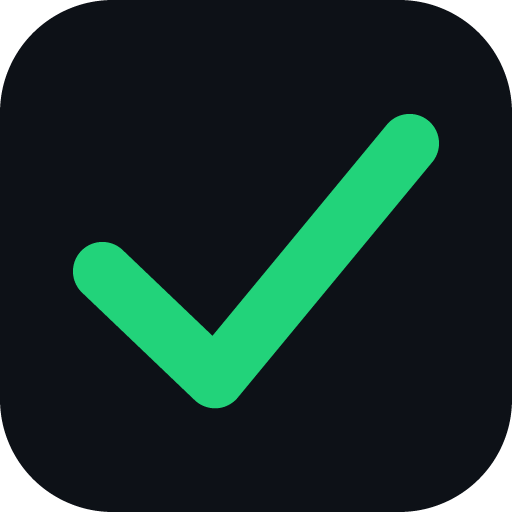
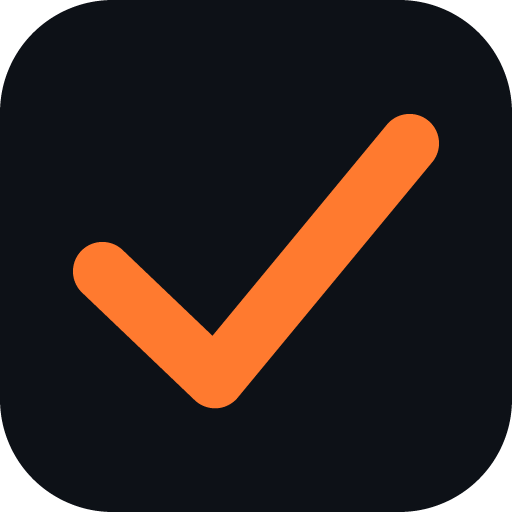
アクセントカラーをオレンジに / チェック時の効果音を追加
- 配色: フラットなオレンジ（ダーク #ff7a2f、ライト #e2621b）をアクセントにし、
  チェック済みと主要ボタンに使う。色がぶつかるためスキップは橙からグレーへ。
  緑は使わなくなった。アプリアイコンもオレンジに作り直した。
- 効果音: チェックを入れた瞬間に「ピコン」（C6 → G6 に倍音を少し重ねた約0.3秒）。
  音声ファイルは持たず Web Audio API でその場で合成するので、オフラインでも鳴り、
  容量も増えない。チェックを外すときとスキップでは鳴らさない。
  設定に「音を鳴らす」のオン / オフと「▶ 試す」を追加。既定はオン。

Claude-Session: https://claude.ai/code/session_015Zuj74Nt4WrpD2ovC3LtDR

Changed region(s): [[0.125, 0.2188, 0.875, 0.8125]]

diff --git a/index.html b/index.html
@@ -20,12 +20,12 @@
 :root{
   --bg:#0d1117; --card:#161d26; --card2:#202b36; --line:#333f4c; --press:#2b3846;
   --fg:#f2f6fa; --muted:#93a6b8; --field:#080b0f;
-  --ok:#22d37a; --ok-bg:#0e3222; --ok-line:#1f9d5e; --on-ok:#04250f;
-  --skip:#e6a640; --skip-bg:#2a2116; --skip-line:#8a6524;
-  --accent:#4da3ff; --primary-bg:#123f6d; --primary-fg:#dbeaff;
+  --ok:#ff7a2f; --ok-bg:#3a1e0c; --ok-line:#ff7a2f; --on-ok:#2a1002;
+  --skip:#94a6b8; --skip-bg:#1d242c; --skip-line:#4b5a68;
+  --accent:#ff7a2f; --primary-bg:#4a2410; --primary-fg:#ffd6bb;
   --danger:#ff8f8f; --danger-bg:#3d1717; --danger-line:#7d3030;
   --bar-bg:rgba(13,17,23,.97);
-  --toast-bg:#eef4fb; --toast-fg:#0d1117; --toast-link:#0b4ea2;
+  --toast-bg:#eef4fb; --toast-fg:#0d1117; --toast-link:#c2510c;
   --shadow:0 8px 24px rgba(0,0,0,.5);
   --bar-h:60px; --radius:12px;
 }
@@ -33,12 +33,12 @@
   :root{
     --bg:#f4f6f9; --card:#ffffff; --card2:#e9eef4; --line:#ccd6e0; --press:#dbe3ec;
     --fg:#101820; --muted:#5b6b7b; --field:#ffffff;
-    --ok:#0f9d58; --ok-bg:#e4f5ea; --ok-line:#0f9d58; --on-ok:#ffffff;
-    --skip:#a96a00; --skip-bg:#fdf2e0; --skip-line:#d6a24a;
-    --accent:#0b62c4; --primary-bg:#e2edfc; --primary-fg:#0b3f80;
+    --ok:#e2621b; --ok-bg:#fdeee3; --ok-line:#e2621b; --on-ok:#ffffff;
+    --skip:#5b6b7b; --skip-bg:#eaeef3; --skip-line:#b6c2ce;
+    --accent:#d95a11; --primary-bg:#fde7d7; --primary-fg:#8d3907;
     --danger:#a12222; --danger-bg:#fdecec; --danger-line:#e0a3a3;
     --bar-bg:rgba(244,246,249,.97);
-    --toast-bg:#1b2430; --toast-fg:#f2f6fa; --toast-link:#8bc0ff;
+    --toast-bg:#1b2430; --toast-fg:#f2f6fa; --toast-link:#ffa46a;
     --shadow:0 8px 24px rgba(16,24,32,.18);
   }
 }
@@ -62,6 +62,7 @@ button{cursor:pointer}
 }
 .h-row{display:flex; align-items:baseline; gap:8px}
 .h-title{font-size:18px; font-weight:700; margin:0; white-space:nowrap; overflow:hidden; text-overflow:ellipsis}
+.h-title .dot{color:var(--accent)}
 .h-sub{font-size:12px; color:var(--muted); margin-top:5px}
 .h-count{margin-left:auto; font-size:17px; font-weight:800; font-variant-numeric:tabular-nums; color:var(--muted)}
 .h-count.done{color:var(--ok)}
@@ -223,7 +224,7 @@ function defaultData() {
   const mk = (name, items) => ({ id: uid(), name, items: items.map(t => ({ id: uid(), text: t })) });
   return {
     version: 3,
-    settings: { keepAwake: true },
+    settings: { keepAwake: true, sound: true },
     contexts: [
       mk('出発前', [
         '納品書・伝票を持ったか',
@@ -309,7 +310,7 @@ function isValidData(o) {
 function normalize(o) {
   const d = {
     version: 3,
-    settings: Object.assign({ keepAwake: true }, o.settings || {}),
+    settings: Object.assign({ keepAwake: true, sound: true }, o.settings || {}),
     contexts: contextsOf(o).map(s => ({
       id: s.id || uid(),
       name: String(s.name),
@@ -477,6 +478,43 @@ function confirmDialog({ title, body = '', ok = 'OK', cancel = 'やめる', dang
     };
     setTimeout(() => { const b = m.querySelector('[data-a="ok"]'); if (b) b.focus(); }, 0);
   });
+}
+
+/* =========================================================
+   効果音（チェックを入れたときの「ピコン」）
+   音声ファイルは持たず、その場で合成する（オフラインでも鳴る）
+   ========================================================= */
+let audioCtx = null;
+function playCheckSound() {
+  if (!state.settings.sound) return;
+  const AC = window.AudioContext || window.webkitAudioContext;
+  if (!AC) return;
+  try {
+    if (!audioCtx) audioCtx = new AC();
+    if (audioCtx.state === 'suspended') audioCtx.resume();
+
+    const t0 = audioCtx.currentTime;
+    const master = audioCtx.createGain();
+    master.gain.value = 0.18;
+    master.connect(audioCtx.destination);
+
+    // 「ピ」→「コン」。短い高音のあと、少し高い音を余韻つきで重ねる
+    const blip = (freq, start, dur, peak, type = 'sine') => {
+      const osc = audioCtx.createOscillator();
+      const gain = audioCtx.createGain();
+      osc.type = type;
+      osc.frequency.setValueAtTime(freq, t0 + start);
+      gain.gain.setValueAtTime(0.0001, t0 + start);
+      gain.gain.exponentialRampToValueAtTime(peak, t0 + start + 0.006);
+      gain.gain.exponentialRampToValueAtTime(0.0001, t0 + start + dur);
+      osc.connect(gain); gain.connect(master);
+      osc.start(t0 + start);
+      osc.stop(t0 + start + dur + 0.02);
+    };
+    blip(1046.5, 0,     0.085, 0.55);          // ピ（C6）
+    blip(1568.0, 0.052, 0.26,  0.65);          // コン（G6）
+    blip(3136.0, 0.052, 0.10,  0.12, 'triangle'); // 上の倍音を少しだけ足して抜けを良くする
+  } catch (e) { /* 音が出せない環境は黙って無視 */ }
 }
 
 /* =========================================================
@@ -708,6 +746,18 @@ function renderSettings() {
     </section>
 
     <section class="sec">
+      <h2>音</h2>
+      <p class="hint">チェックを入れたときに短い音が鳴ります（外すときとスキップは鳴りません）。
+端末のメディア音量が0だと鳴りません。</p>
+      <div class="row-actions">
+        <button class="btn sm ${state.settings.sound ? 'primary' : ''}" data-act="sound">
+          ${state.settings.sound ? '✓ 音を鳴らす（オン）' : '音を鳴らす（オフ）'}
+        </button>
+        <button class="btn sm" data-act="soundtest">▶ 試す</button>
+      </div>
+    </section>
+
+    <section class="sec">
       <h2>画面スリープ</h2>
       <p class="hint">オンにすると、このアプリを開いている間は画面が消えません（Wake Lock）。
 端末の電池セーバー中は効かないことがあります。</p>
@@ -758,6 +808,7 @@ document.addEventListener('click', async (e) => {
     if (checkDayRollover()) return;           // 日付が変わっていたら作り直す
     toggleItem(ctx.id, item.dataset.item);
     refreshRow(item, ctx, item.dataset.item);
+    if (isChecked(ctx.id, item.dataset.item)) playCheckSound();   // 外すときは鳴らさない
     if (navigator.vibrate) navigator.vibrate(12);
     return;
   }
@@ -862,6 +913,24 @@ document.addEventListener('click', async (e) => {
       for (const day of Object.values(state.log)) if (day[ctx.id]) delete day[ctx.id][it.id];
       save(true);
       rerender();
+      break;
+    }
+
+    case 'sound': {
+      state.settings.sound = !state.settings.sound;
+      save(true);
+      if (state.settings.sound) playCheckSound();
+      rerender();
+      toast(state.settings.sound ? '音を鳴らします' : '音を鳴らしません');
+      break;
+    }
+
+    case 'soundtest': {
+      const was = state.settings.sound;
+      state.settings.sound = true;
+      playCheckSound();
+      state.settings.sound = was;
+      if (!was) toast('今は「オフ」です。オンにすると毎回鳴ります');
       break;
     }
 

diff --git a/sw.js b/sw.js
@@ -1,6 +1,6 @@
 // 納品チェックリスト - Service Worker
 // キャッシュ名の数字を変えると、次回オンライン時に新バージョンへ更新されます。
-const CACHE = 'checklist-v3';
+const CACHE = 'checklist-v4';
 
 const ASSETS = [
   './',
